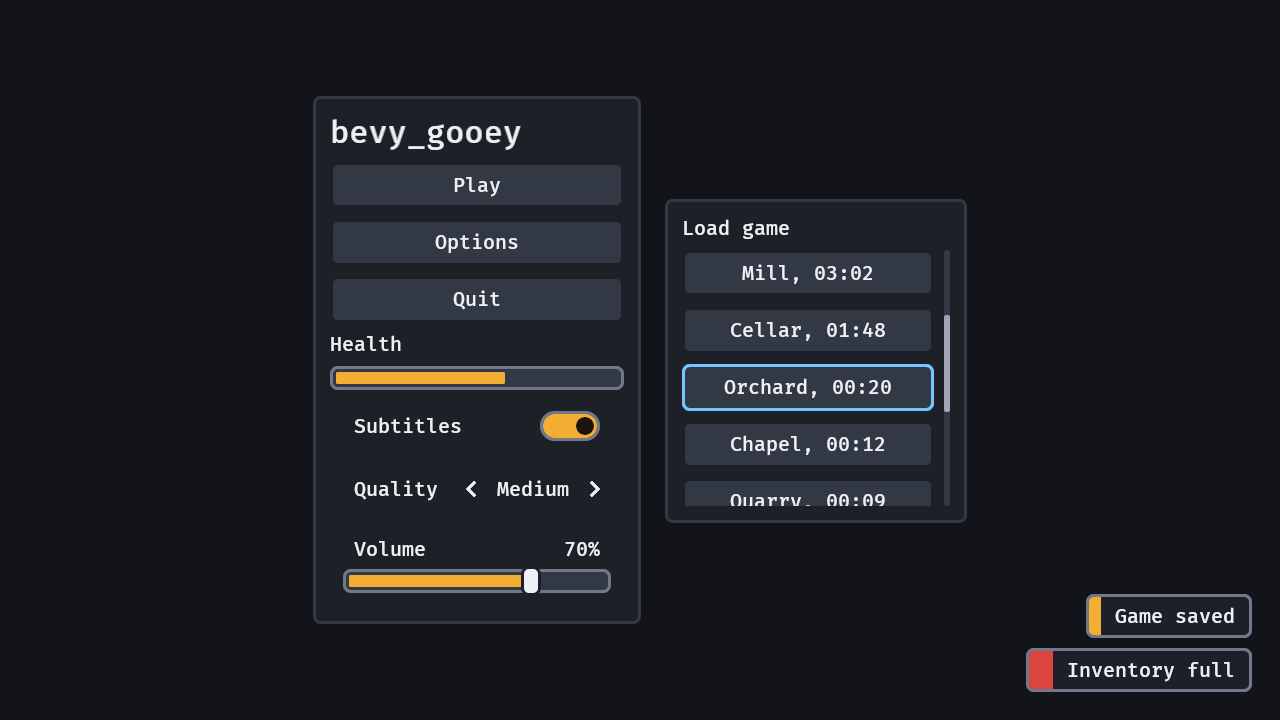
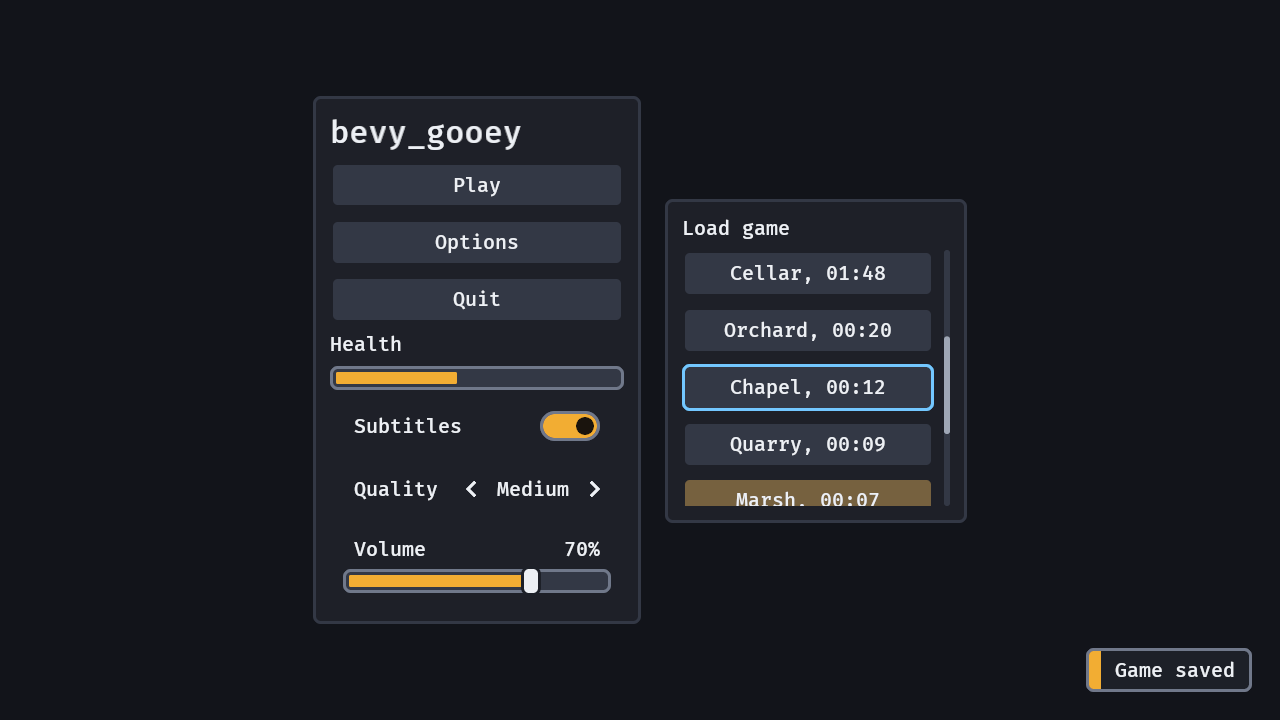
Docs to the org guide: hero GIF, README order, docs/guide, docs/media list, absolute URLs
Documented: lists (list, scroll-to-focus, PageUp/PageDown, rail drag), toasts, UI scale and pixel snapping, pointer pass-through, skins and their WCAG checks, settings controls; the gallery's GOOEY_SHOT_DIR frame capture.

diff --git a/README.md b/README.md
@@ -11,14 +11,14 @@ navigation, on Bevy's own headless widgets.
 [![Bevy](https://img.shields.io/badge/bevy-0.20-blue.svg)](https://bevyengine.org)
 [![licence](https://img.shields.io/badge/licence-MIT%20OR%20Apache--2.0-blue.svg)](#who-and-licence)
 
-![A menu and a save-slot list: focus walks down the panel onto Options, the health meter drains, the Load game list scrolls to follow the focus ring onto Orchard, 00:20, and a "Game saved" toast appears](docs/media/gallery.gif)
+![A menu panel and a Load game list: the focus ring walks down the save slots from Autosave to Harbour, Page Down scrolls the list so Chapel, 00:12 carries the ring, the health meter drains, and a "Game saved" toast appears at the bottom right](https://raw.githubusercontent.com/bevy-coven/bevy_gooey/main/docs/media/gallery.gif)
 
 *`examples/gallery`: two panels, a meter draining, a switch, a choice, a slider, a list that scrolls to
 follow focus, and toasts.*
 
 ![The same gallery at rest: the left panel with Play, Options and Quit, the meter, the Subtitles
 switch, the Quality choice and the Volume slider; the right a Load game list four and a half rows tall
-with a rail and its thumb; two toasts at the bottom right](docs/media/gallery.png)
+with a rail and its thumb; two toasts at the bottom right](https://raw.githubusercontent.com/bevy-coven/bevy_gooey/main/docs/media/gallery.png)
 
 *The still: every widget on one screen, the dark skin, 1280 × 720.*
 
@@ -90,26 +90,26 @@ and the save-slot list scrolls with the wheel, a drag on its thumb or PageUp and
 
 - **Skin the whole interface from one value** — `GooeySkin` is plain data with two presets and a
   `problems()` check against the WCAG 2.2 contrast and target-size rules:
-  [skins and checks](docs/guide/skins.md).
+  [skins and checks](https://github.com/bevy-coven/bevy_gooey/blob/main/docs/guide/skins.md).
 - **Build an options screen from three rows** — a `toggle`, a `choice` and a `slider` root on Bevy's own
   `Checkbox`, `Button` and `Slider`, so the entity you spawn carries its value, takes `observe` and says
-  each change once in `ValueChange`: [settings controls](docs/guide/controls.md).
+  each change once in `ValueChange`: [settings controls](https://github.com/bevy-coven/bevy_gooey/blob/main/docs/guide/controls.md).
 - **Scroll a list that follows the focus** — `list(4.5, children![..])` cuts the fifth row so the player
   sees there is more, and keeps the next row in sight as the arrows walk down it:
-  [lists](docs/guide/lists.md).
+  [lists](https://github.com/bevy-coven/bevy_gooey/blob/main/docs/guide/lists.md).
 - **Reach every screen with keys or a pad** — arrows and the D-pad move focus to the nearest widget, an
   open dialog holds it, and the ring appears the moment a key is pressed:
-  [navigation](docs/guide/navigation.md).
+  [navigation](https://github.com/bevy-coven/bevy_gooey/blob/main/docs/guide/navigation.md).
 - **Say something without building a layout** — `commands.spawn(toast("Game saved"))` stacks, times
   itself to its own length and ages on real time:
-  [toasts](docs/guide/toasts.md).
+  [toasts](https://github.com/bevy-coven/bevy_gooey/blob/main/docs/guide/toasts.md).
 - **Keep the interface's share of the screen at every resolution** — the skin's sizes scale with the
   window, and every border stays a whole number of device pixels:
-  [screen size](docs/guide/scale.md).
+  [screen size](https://github.com/bevy-coven/bevy_gooey/blob/main/docs/guide/scale.md).
 - **Let the pointer through a HUD** — the empty part of a `screen` is `Pickable::IGNORE`, so a click on
-  the world under it still reaches the world: [over a game world](docs/guide/pointer.md).
+  the world under it still reaches the world: [over a game world](https://github.com/bevy-coven/bevy_gooey/blob/main/docs/guide/pointer.md).
 
-The [guide index](docs/guide/README.md) lists the rest: every widget in one table, what a host touches
+The [guide index](https://github.com/bevy-coven/bevy_gooey/blob/main/docs/guide/README.md) lists the rest: every widget in one table, what a host touches
 and what it only sees, and the boundary with the game.
 
 ## Part of the Coven
@@ -129,11 +129,11 @@ see [use it in Grimoire](https://bevy-coven.github.io/crates/bevy_gooey.html#use
 
 - [docs.rs](https://docs.rs/bevy_gooey) — the API reference (`cargo doc --open`).
 - [The book page](https://bevy-coven.github.io/crates/bevy_gooey.html) — the same guide with the pictures.
-- [`docs/guide/`](docs/guide/README.md) — the detail: navigation, controls, lists, toasts, skins, screen
+- [`docs/guide/`](https://github.com/bevy-coven/bevy_gooey/blob/main/docs/guide/README.md) — the detail: navigation, controls, lists, toasts, skins, screen
   size, the pointer, feedback.
-- [`examples/`](examples) — `gallery`, every widget on one screen.
-- [`docs/media/README.md`](docs/media/README.md) — how every picture here is made.
-- [`CHANGELOG.md`](CHANGELOG.md) — what each release changed, and what it broke.
+- [`examples/`](https://github.com/bevy-coven/bevy_gooey/tree/main/examples) — `gallery`, every widget on one screen.
+- [`docs/media/README.md`](https://github.com/bevy-coven/bevy_gooey/blob/main/docs/media/README.md) — how every picture here is made.
+- [`CHANGELOG.md`](https://github.com/bevy-coven/bevy_gooey/blob/main/CHANGELOG.md) — what each release changed, and what it broke.
 
 ## Who and licence
 
@@ -141,6 +141,6 @@ Maintainer [@Ladvien](https://github.com/Ladvien). Questions and bugs go to
 [the issues](https://github.com/bevy-coven/bevy_gooey/issues), and a game asking for a change here uses
 the `consumer` label. Contributions follow the org's
 [`CONTRIBUTING.md`](https://github.com/bevy-coven/.github/blob/main/CONTRIBUTING.md); the crate's own
-rules for changing it are in [`AGENTS.md`](AGENTS.md).
+rules for changing it are in [`AGENTS.md`](https://github.com/bevy-coven/bevy_gooey/blob/main/AGENTS.md).
 
 MIT OR Apache-2.0, at your option.

diff --git a/docs/media/README.md b/docs/media/README.md
@@ -12,7 +12,7 @@ sets the window, `GOOEY_SKIN` the preset, and `GOOEY_KEYS` stages the input each
 | file | what it shows | command that regenerates it | captured | shows |
 |---|---|---|---|---|
 | `gallery.png` | the still: every widget on one screen — Play/Options/Quit, a health meter draining, the Subtitles switch, the Quality choice, the Volume slider, the Load game list four and a half rows tall with its rail, and two toasts at the bottom right | `GOOEY_FRAMES=200 GOOEY_SHOT=docs/media/gallery.png GOOEY_KEY_EVERY=14 GOOEY_KEYS=slots,down,down,down,pagedown,toast GOOEY_SIZE=1280x720 cargo run --release --example gallery` | 2026-10-31 | 0.3.0 |
-| `gallery.gif` | the hero: focus walks down the panel onto Options, the meter drains, the Load game list scrolls to follow the ring onto `Orchard, 00:20`, and a "Game saved" toast appears | the same run with `GOOEY_SHOT_DIR=/tmp/gooey-gif GOOEY_SHOT_FROM=30 GOOEY_SHOT_EVERY=2`, then `ffmpeg -framerate 30 -i /tmp/gooey-gif/f_%04d.png -vf "fps=15,scale=960:-1:flags=lanczos,split[a][b];[a]palettegen=stats_mode=diff[p];[b][p]paletteuse=dither=bayer" -loop 0 docs/media/gallery.gif` | 2026-10-31 | 0.3.0 |
+| `gallery.gif` | the hero (5.7 s, 960×540): the ring walks down the save slots from Autosave to Harbour, Page Down scrolls the list onto `Chapel, 00:12`, the meter drains, and a "Game saved" toast appears | the same run with `GOOEY_SHOT_DIR=/tmp/gooey-gif GOOEY_SHOT_FROM=30 GOOEY_SHOT_EVERY=2`, then `ffmpeg -framerate 15 -i /tmp/gooey-gif/f_%04d.png -vf "fps=15,scale=960:-1:flags=lanczos,split[a][b];[a]palettegen=stats_mode=diff[p];[b][p]paletteuse=dither=bayer" -loop 0 docs/media/gallery.gif` | 2026-10-31 | 0.3.0 |
 
 A capture is one run of the example; the `gooey: frames <n> mean_ms <x>` line it prints is the frame
 time at that size, and the `gooey: kept <n> frames in <dir>` line says how many frames a GIF got.
